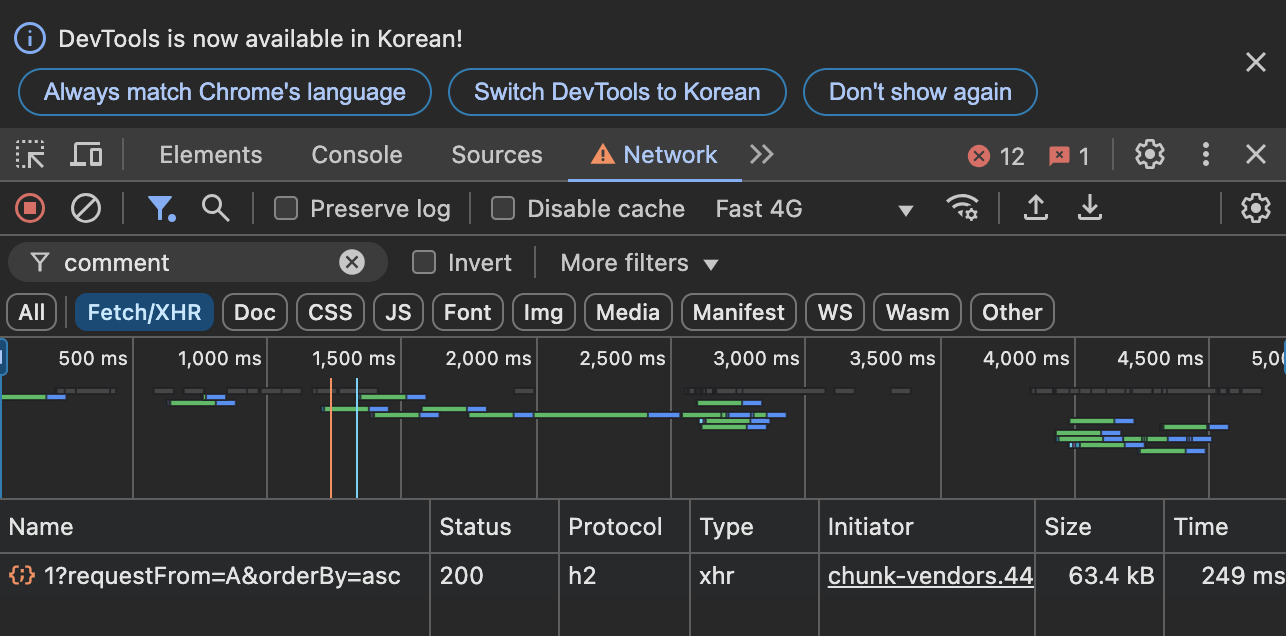
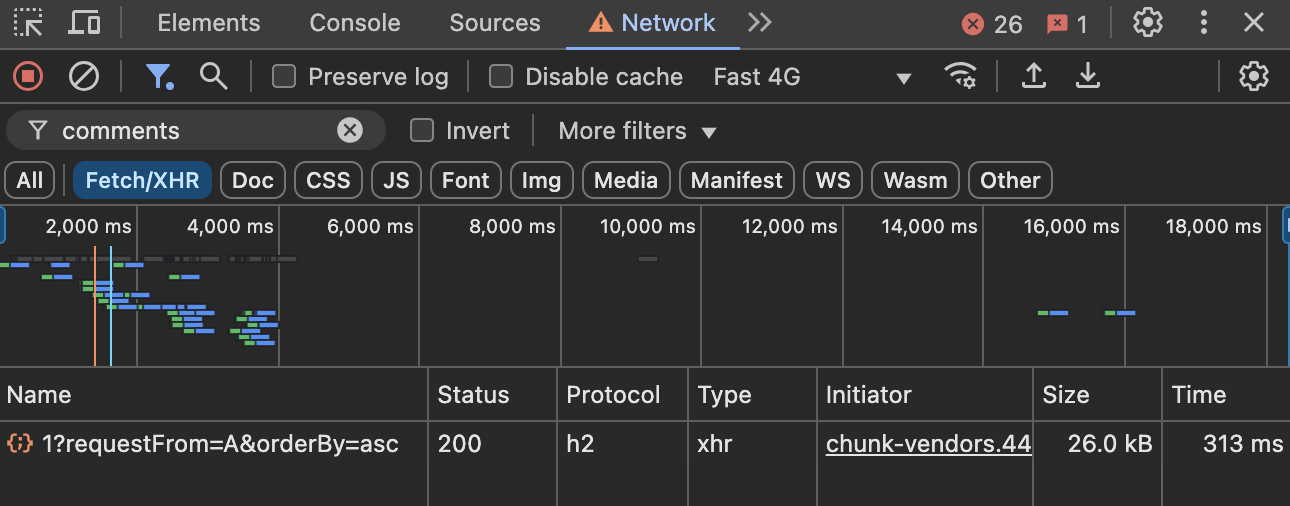
Fix: 경로변경 & 이미지 변경

Changed region(s): [[0.0, 0.0, 1.0, 1.0], [0.9642, 0.0296, 0.9953, 0.0593]]

diff --git a/guide.html b/guide.html
@@ -3,7 +3,7 @@
   <head>
     <meta charset="UTF-8" />
     <meta name="viewport" content="width=device-width, initial-scale=1.0" />
-    <link rel="icon" href="/favicon.ico" />
+    <link rel="icon" href="favicon.ico" />
     <title>댓글 DATA EXCEL | 가이드</title>
     <link rel="stylesheet" href="style.css" />
   </head>
@@ -14,38 +14,38 @@
         <div class="box-guide">
           <h2>1. 크롬 > 개발자도구(F12) NETWORK 탭 열기</h2>
           <h3>댓글을 추출하고자 하는 페이지에서 열어줍니다.</h3>
-          <img src="/images/guide1.png" alt="guide" />
+          <img src="images/guide1.png" alt="guide" />
         </div>
         <div class="box-guide">
-          <h2>2. 검색창에 comment를 치고, Fetch/XHR 탭 누른 후 새로고침</h2>
+          <h2>2. 검색창에 comments를 치고, Fetch/XHR 탭 누른 후 새로고침</h2>
           <h3></h3>
-          <img src="/images/guide2.png" alt="guide" />
+          <img src="images/guide2.png" alt="guide" />
         </div>
         <div class="box-guide">
           <h2>
             3. 개발자도구를 유지한 상태에서 추출하고자 하는 댓글 페이지 모두
             클릭
           </h2>
-          <img src="/images/guide3.png" alt="guide" />
+          <img src="images/guide3.png" alt="guide" />
         </div>
         <div class="box-guide">
           <h2>4. Preview 탭에서 오른쪽 마우스 Copy Value 하여 데이터 복사</h2>
           <h3></h3>
-          <img src="/images/guide4.png" alt="guide" />
+          <img src="images/guide4.png" alt="guide" />
         </div>
         <div class="box-guide">
           <h2>5. 메모장에 붙여넣고 원하는이름.json 으로 저장</h2>
           <h3>처음 부분이 { "result":{ 로 시작해야합니다.</h3>
-          <img src="/images/guide5.png" alt="guide" />
+          <img src="images/guide5.png" alt="guide" />
         </div>
         <div class="box-guide">
           <h2>6. 댓글 페이지 별 반복하여 json 파일 저장</h2>
           <h3></h3>
-          <img src="/images/guide6.png" alt="guide" />
+          <img src="images/guide6.png" alt="guide" />
         </div>
       </div>
       <a
-        href="/"
+        href="index.html"
         id="guide"
         style="left: 20px; right: auto; background-color: rgb(36, 78, 244)"
         >HOME</a

diff --git a/index.html b/index.html
@@ -3,7 +3,7 @@
   <head>
     <meta charset="UTF-8" />
     <meta name="viewport" content="width=device-width, initial-scale=1.0" />
-    <link rel="icon" href="/favicon.ico" />
+    <link rel="icon" href="favicon.ico" />
     <title>댓글 DATA EXCEL</title>
     <link rel="stylesheet" href="style.css" />
   </head>
@@ -19,7 +19,7 @@
         <button id="downloadExcel" class="hidden">엑셀 다운로드</button>
         <button id="resetUpload" class="hidden">⅁ 다시 업로드하기</button>
       </div>
-      <a href="/guide.html" id="guide" target="_blank">가이드</a>
+      <a href="guide.html" id="guide" target="_blank">가이드</a>
     </div>
     <input
       type="file"
